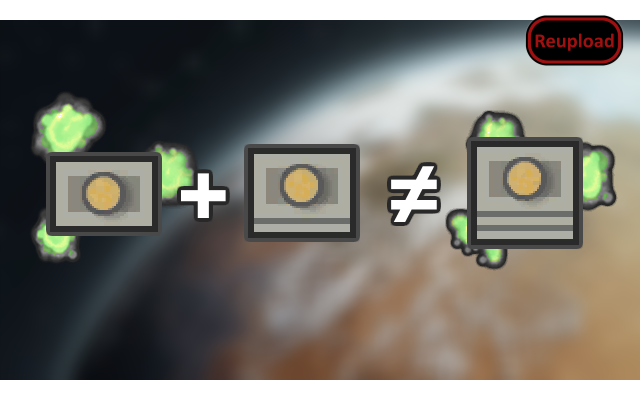
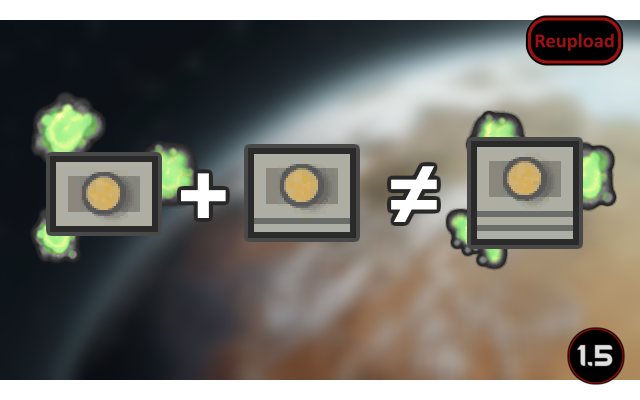
Mod updated for 1.5 and passed autotests

Changed region(s): [[0.875, 0.81, 1.0, 0.96]]

diff --git a/Source/Food_Poisoning_Stack_Fix/Food_Poisoning_Stack_Fix.cs b/Source/Food_Poisoning_Stack_Fix/Food_Poisoning_Stack_Fix.cs
@@ -53,8 +53,10 @@ public class Food_Poisoning_Stack_Fix
                 return false;
             }
 
-            Traverse.Create(compFoodPoisonable).Field("poisonPct").SetValue((float)num2);
-            compFoodPoisonable.cause = ___cause;
+            AccessTools.Field(typeof(CompFoodPoisonable), "poisonPct").SetValue(compFoodPoisonable, num2);
+            AccessTools.Field(typeof(CompFoodPoisonable), "cause").SetValue(compFoodPoisonable, ___cause);
+            //Traverse.Create(compFoodPoisonable).Field("poisonPct").SetValue((float)num2);
+            //compFoodPoisonable.cause = ___cause;
             ___poisonPct = num;
 
             return false;
@@ -64,15 +66,21 @@ public class Food_Poisoning_Stack_Fix
             Thing otherStack)
         {
             var compFoodPoisonable = otherStack.TryGetComp<CompFoodPoisonable>();
-            if (__instance.cause == FoodPoisonCause.Unknown && compFoodPoisonable.cause != 0)
+
+            var causeField = AccessTools.Field(typeof(CompFoodPoisonable), "cause");
+            var instanceValue = (FoodPoisonCause)causeField.GetValue(__instance);
+            var otherValue = (FoodPoisonCause)causeField.GetValue(compFoodPoisonable);
+            if (instanceValue == FoodPoisonCause.Unknown && otherValue != 0)
             {
-                __instance.cause = compFoodPoisonable.cause;
+                causeField.SetValue(__instance, otherValue);
+                //__instance.cause = otherValue;
             }
-            else if (compFoodPoisonable.cause != 0 || __instance.cause != 0)
+            else if (otherValue != 0 || instanceValue != 0)
             {
-                __instance.cause = ___poisonPct <= compFoodPoisonable.PoisonPercent
-                    ? compFoodPoisonable.cause
-                    : __instance.cause;
+                causeField.SetValue(__instance,
+                    //__instance.cause = otherValue;
+                    ___poisonPct <= compFoodPoisonable.PoisonPercent ? otherValue : instanceValue);
+                //__instance.cause = __instance.cause;
             }
 
             ___poisonPct += compFoodPoisonable.PoisonPercent;

diff --git a/README.md b/README.md
@@ -26,9 +26,13 @@ Dyrewulfe
 
 -  See if the the error persists if you just have this mod and its requirements active.
 -  If not, try adding your other mods until it happens again.
--  Post your error-log using https://steamcommunity.com/workshop/filedetails/?id=818773962]HugsLib and command Ctrl+F12
+-  Post your error-log using https://steamcommunity.com/workshop/filedetails/?id=818773962]HugsLib or the standalone https://steamcommunity.com/sharedfiles/filedetails/?id=2873415404]Uploader and command Ctrl+F12
 -  For best support, please use the Discord-channel for error-reporting.
 -  Do not report errors by making a discussion-thread, I get no notification of that.
 -  If you have the solution for a problem, please post it to the GitHub repository.
+-  Use https://github.com/RimSort/RimSort/releases/latest]RimSort to sort your mods
 
+
+
+https://steamcommunity.com/sharedfiles/filedetails/changelog/2843483188]![Image](https://img.shields.io/github/v/release/emipa606/FoodPoisoningStackFix?label=latest%20version&style=plastic&color=9f1111&labelColor=black)
 
